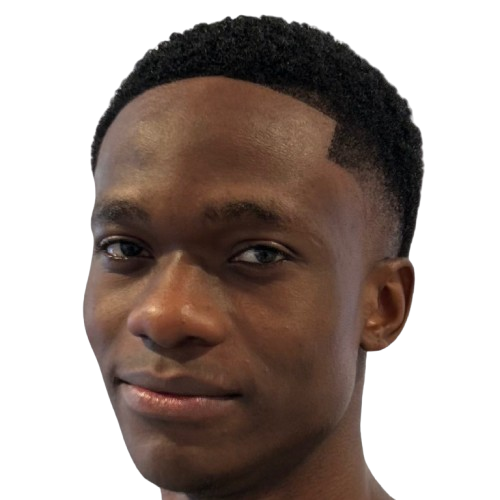
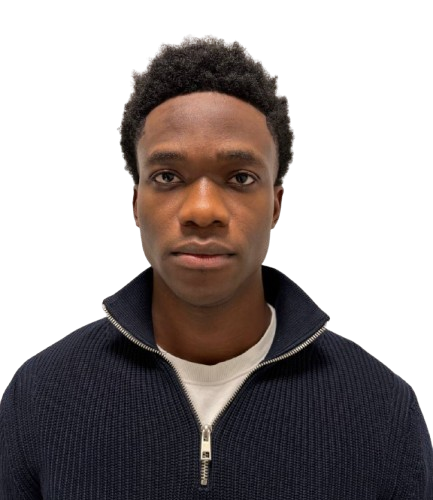
Change Hero Picture and Update Dependecies

diff --git a/src/App.css b/src/App.css
@@ -149,7 +149,7 @@ header {
 
 .person-img img {
   margin-right: 8rem;
-  width: 490px;
+  width: 420px;
   height: 468px;
 }
 
